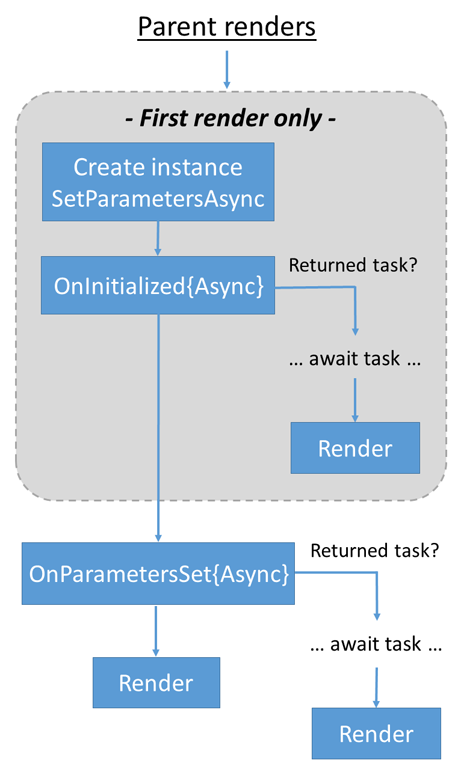
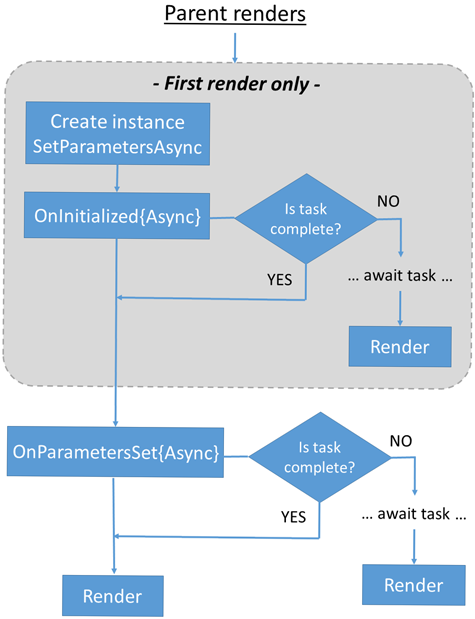
Updates

diff --git a/aspnetcore/blazor/components/lifecycle.md b/aspnetcore/blazor/components/lifecycle.md
@@ -1,11 +1,11 @@
 ---
 title: ASP.NET Core Blazor lifecycle
 author: guardrex
-description: Learn about the ASP.NET Core Blazor framework's Razor component lifecycle and how to use lifecycle events.
+description: Learn about the ASP.NET Core Razor component lifecycle and how to use lifecycle events.
 monikerRange: '>= aspnetcore-3.1'
 ms.author: riande
 ms.custom: mvc
-ms.date: 03/23/2020
+ms.date: 03/24/2020
 no-loc: [appsettings.json, "ASP.NET Core Identity", cookie, Cookie, Blazor, "Blazor Server", "Blazor WebAssembly", "Identity", "Let's Encrypt", Razor, SignalR]
 uid: blazor/components/lifecycle
 ---
@@ -22,15 +22,17 @@ Component lifecycle events:
 1. If the component is rendering for the first time on a request:
    * Create the component's instance.
    * Perform property injection. Run [`SetParametersAsync`](#before-parameters-are-set-setparametersasync).
-   * Call [`OnInitialized{Async}`](#component-initialization-methods-oninitializedoninitializedasync). If a <xref:System.Threading.Tasks.Task> is returned, the <xref:System.Threading.Tasks.Task> is awaited and the component is rendered. If a <xref:System.Threading.Tasks.Task> isn't returned, the component is rendered.
-1. Call [`OnParametersSet{Async}`](#after-parameters-are-set-onparameterssetonparameterssetasync) and render the component. If a <xref:System.Threading.Tasks.Task> is returned from `OnParametersSetAsync`, the <xref:System.Threading.Tasks.Task> is awaited and then the component is rerendered.
+   * Call [`OnInitialized{Async}`](#component-initialization-methods-oninitializedasync). If an incomplete <xref:System.Threading.Tasks.Task> is returned, the <xref:System.Threading.Tasks.Task> is awaited and then the component is rerendered.
+1. Call [`OnParametersSet{Async}`](#after-parameters-are-set-onparameterssetasync). If an incomplete <xref:System.Threading.Tasks.Task> is returned, the <xref:System.Threading.Tasks.Task> is awaited and then component is rerendered.
+1. Render for all synchronous work and complete <xref:System.Threading.Tasks.Task>s.
 
 ![Component lifecycle events of a Razor component in Blazor](lifecycle/_static/lifecycle1.png)
 
 Document Object Model (DOM) event processing:
 
 1. The event handler is run.
-1. If a <xref:System.Threading.Tasks.Task> is returned, the <xref:System.Threading.Tasks.Task> is awaited and then the component is rendered. If a <xref:System.Threading.Tasks.Task> isn't returned, the component is rendered.
+1. If an incomplete <xref:System.Threading.Tasks.Task> is returned, the <xref:System.Threading.Tasks.Task> is awaited and then the component is rerendered.
+1. Render for all synchronous work and complete <xref:System.Threading.Tasks.Task>s.
 
 ![Document Object Model (DOM) event processing](lifecycle/_static/lifecycle2.png)
 
@@ -41,7 +43,7 @@ The `Render` lifecycle:
    * When [`ShouldRender`](#suppress-ui-refreshing-shouldrender) is `false`.
 1. Build the render tree diff (difference) and render the component.
 1. Await the DOM to update.
-1. Call [`OnAfterRender{Async}`](#after-component-render-onafterrenderonafterrenderasync).
+1. Call [`OnAfterRender{Async}`](#after-component-render-onafterrenderasync).
 
 ![Render lifecycle](lifecycle/_static/lifecycle3.png)
 
@@ -51,13 +53,13 @@ Developer calls to [`StateHasChanged`](#state-changes-statehaschanged) result in
 
 <xref:Microsoft.AspNetCore.Components.ComponentBase.SetParametersAsync%2A> sets parameters supplied by the component's parent in the render tree or from route parameters.
 
-The method's <xref:Microsoft.AspNetCore.Components.ParameterView> parameter contains the set of [component parameter](xref:blazor/components/index#parameters) values for the component each time <xref:Microsoft.AspNetCore.Components.ComponentBase.SetParametersAsync%2A> is called. By overriding the <xref:Microsoft.AspNetCore.Components.ComponentBase.SetParametersAsync%2A> method, developer code can interact directly with the <xref:Microsoft.AspNetCore.Components.ParameterView>'s parameters.
+The method's <xref:Microsoft.AspNetCore.Components.ParameterView> parameter contains the set of [component parameter](xref:blazor/components/index#parameters) values for the component each time <xref:Microsoft.AspNetCore.Components.ComponentBase.SetParametersAsync%2A> is called. By overriding the <xref:Microsoft.AspNetCore.Components.ComponentBase.SetParametersAsync%2A> method, developer code can interact directly with <xref:Microsoft.AspNetCore.Components.ParameterView>'s parameters.
 
 The default implementation of <xref:Microsoft.AspNetCore.Components.ComponentBase.SetParametersAsync%2A> sets the value of each property with the [`[Parameter]`](xref:Microsoft.AspNetCore.Components.ParameterAttribute) or [`[CascadingParameter]` attribute](xref:Microsoft.AspNetCore.Components.CascadingParameterAttribute) that has a corresponding value in the <xref:Microsoft.AspNetCore.Components.ParameterView>. Parameters that don't have a corresponding value in <xref:Microsoft.AspNetCore.Components.ParameterView> are left unchanged.
 
-If [`base.SetParametersAsync`](xref:Microsoft.AspNetCore.Components.ComponentBase.SetParametersAsync%2A) isn't invoked, the custom code can interpret the incoming parameters value in any way required. For example, there's no requirement to assign the incoming parameters to the properties on the class.
+If [`base.SetParametersAsync`](xref:Microsoft.AspNetCore.Components.ComponentBase.SetParametersAsync%2A) isn't invoked, developer code can interpret the incoming parameters' values in any way required. For example, there's no requirement to assign the incoming parameters to the properties on the class.
 
-If any event handlers are set up, unhook them on disposal. For more information, see the [Component disposal with `IDisposable`](#component-disposal-with-idisposable) section.
+If event handlers are set up, unhook them on disposal. For more information, see the [Component disposal with `IDisposable`](#component-disposal-with-idisposable) section.
 
 In the following example, <xref:Microsoft.AspNetCore.Components.ParameterView.TryGetValue%2A?displayProperty=nameWithType> assigns the `Param` parameter's value to `value` if parsing a route parameter for `Param` is successful. When `value` isn't `null`, the value is displayed by the component.
 
@@ -77,11 +79,9 @@ Although [route parameter matching is case insensitive](xref:blazor/fundamentals
 
 ::: moniker-end
 
-## Component initialization methods (`OnInitialized`/`OnInitializedAsync`)
+## Component initialization methods (`OnInitialized{Async}`)
 
-<xref:Microsoft.AspNetCore.Components.ComponentBase.OnInitialized%2A> and <xref:Microsoft.AspNetCore.Components.ComponentBase.OnInitializedAsync%2A> are invoked when the component is initialized after having received its initial parameters from its parent component in <xref:Microsoft.AspNetCore.Components.ComponentBase.SetParametersAsync%2A>.
-
-Use <xref:Microsoft.AspNetCore.Components.ComponentBase.OnInitializedAsync%2A> when the component performs an asynchronous operation and should refresh when the operation is complete.
+<xref:Microsoft.AspNetCore.Components.ComponentBase.OnInitialized%2A> and <xref:Microsoft.AspNetCore.Components.ComponentBase.OnInitializedAsync%2A> are invoked when the component is initialized after having received its initial parameters in <xref:Microsoft.AspNetCore.Components.ComponentBase.SetParametersAsync%2A>.
 
 For a synchronous operation, override <xref:Microsoft.AspNetCore.Components.ComponentBase.OnInitialized%2A>:
 
@@ -89,13 +89,13 @@ For a synchronous operation, override <xref:Microsoft.AspNetCore.Components.Comp
 
 ::: moniker range=">= aspnetcore-5.0"
 
-[!code-razor[](~/blazor/common/samples/5.x/BlazorSample_WebAssembly/Pages/lifecycle/OnInit.razor)]
+[!code-razor[](~/blazor/common/samples/5.x/BlazorSample_WebAssembly/Pages/lifecycle/OnInit.razor?highlight=8)]
 
 ::: moniker-end
 
 ::: moniker range="< aspnetcore-5.0"
 
-[!code-razor[](~/blazor/common/samples/3.x/BlazorSample_WebAssembly/Pages/lifecycle/OnInit.razor)]
+[!code-razor[](~/blazor/common/samples/3.x/BlazorSample_WebAssembly/Pages/lifecycle/OnInit.razor?highlight=8)]
 
 ::: moniker-end
 
@@ -108,25 +108,25 @@ protected override async Task OnInitializedAsync()
 }
 ```
 
-Blazor Server apps that [prerender their content](xref:blazor/fundamentals/signalr#render-mode) call <xref:Microsoft.AspNetCore.Components.ComponentBase.OnInitializedAsync%2A> *twice*:
+Blazor apps that [prerender their content](xref:blazor/fundamentals/signalr#render-mode) call <xref:Microsoft.AspNetCore.Components.ComponentBase.OnInitializedAsync%2A> *twice*:
 
 * Once when the component is initially rendered statically as part of the page.
-* A second time when the browser establishes a connection back to the server.
+* A second time when the browser renders the component.
 
-To prevent developer code in <xref:Microsoft.AspNetCore.Components.ComponentBase.OnInitializedAsync%2A> from running twice, see the [Stateful reconnection after prerendering](#stateful-reconnection-after-prerendering) section.
+To prevent developer code in <xref:Microsoft.AspNetCore.Components.ComponentBase.OnInitializedAsync%2A> from running twice when prerendering in Blazor Server apps, see the [Stateful reconnection after prerendering](#stateful-reconnection-after-prerendering) section. Although the content in the section focuses on Blazor Server and stateful *reconnection* after the SignalR connection is established, the corallary scenario for prerendered hosted Blazor WebAssembly involves a similar conditions and approaches to prevent executing developer code twice. A *new state preservation feature* is planned for the ASP.NET Core 6.0 release that will improve the management of prerendering and initialization code execution.
 
-While a Blazor Server app is prerendering, certain actions, such as calling into JavaScript, aren't possible because a connection with the browser hasn't been established. Components may need to render differently when prerendered. For more information, see the [Detect when the app is prerendering](#detect-when-the-app-is-prerendering) section.
+While a Blazor app is prerendering, certain actions, such as calling into JavaScript, aren't possible. Components may need to render differently when prerendered. For more information, see the [Detect when the app is prerendering](#detect-when-the-app-is-prerendering) section.
 
-If any event handlers are set up, unhook them on disposal. For more information, see the [Component disposal with `IDisposable`](#component-disposal-with-idisposable) section.
+If event handlers are set up, unhook them on disposal. For more information, see the [Component disposal with `IDisposable`](#component-disposal-with-idisposable) section.
 
-## After parameters are set (`OnParametersSet`/`OnParametersSetAsync`)
+## After parameters are set (`OnParametersSet{Async}`)
 
 <xref:Microsoft.AspNetCore.Components.ComponentBase.OnParametersSet%2A> or <xref:Microsoft.AspNetCore.Components.ComponentBase.OnParametersSetAsync%2A> are called:
 
 * After the component is initialized in <xref:Microsoft.AspNetCore.Components.ComponentBase.OnInitialized%2A> or <xref:Microsoft.AspNetCore.Components.ComponentBase.OnInitializedAsync%2A>.
 * When the parent component rerenders and supplies:
   * Only known primitive immutable types of which at least one parameter has changed.
-  * Any complex-typed parameters. The framework can't know whether the values of a complex-typed parameter have mutated internally, so it always treats the parameter set as changed when one or more complex-typed parameters are present.
+  * Complex-typed parameters. The framework can't know whether the values of a complex-typed parameter have mutated internally, so the framework always treats the parameter set as changed when one or more complex-typed parameters are present.
 
 For the following example component, navigate to the component's page at a URL:
 
@@ -159,11 +159,11 @@ protected override async Task OnParametersSetAsync()
 }
 ```
 
-If any event handlers are set up, unhook them on disposal. For more information, see the [Component disposal with `IDisposable`](#component-disposal-with-idisposable) section.
+If event handlers are set up, unhook them on disposal. For more information, see the [Component disposal with `IDisposable`](#component-disposal-with-idisposable) section.
 
 For more information on route parameters and constraints, see <xref:blazor/fundamentals/routing>.
 
-## After component render (`OnAfterRender`/`OnAfterRenderAsync`)
+## After component render (`OnAfterRender{Async}`)
 
 <xref:Microsoft.AspNetCore.Components.ComponentBase.OnAfterRender%2A> and <xref:Microsoft.AspNetCore.Components.ComponentBase.OnAfterRenderAsync%2A> are called after a component has finished rendering. Element and component references are populated at this point. Use this stage to perform additional initialization steps using the rendered content, such as activating third-party JavaScript libraries that operate on the rendered DOM elements.
 
@@ -205,7 +205,7 @@ Even if you return a <xref:System.Threading.Tasks.Task> from <xref:Microsoft.Asp
 1. The component executes on the server to produce some static HTML markup in the HTTP response. During this phase, <xref:Microsoft.AspNetCore.Components.ComponentBase.OnAfterRender%2A> and <xref:Microsoft.AspNetCore.Components.ComponentBase.OnAfterRenderAsync%2A> aren't called.
 1. When the Blazor script (`blazor.webassembly.js` or `blazor.server.js`) start in the browser, the component is restarted in an interactive rendering mode. After a component is restarted, <xref:Microsoft.AspNetCore.Components.ComponentBase.OnAfterRender%2A> and <xref:Microsoft.AspNetCore.Components.ComponentBase.OnAfterRenderAsync%2A> **are** called because the app isn't in the prerendering phase any longer.
 
-If any event handlers are set up, unhook them on disposal. For more information, see the [Component disposal with `IDisposable`](#component-disposal-with-idisposable) section.
+If event handlers are set up, unhook them on disposal. For more information, see the [Component disposal with `IDisposable`](#component-disposal-with-idisposable) section.
 
 ## Suppress UI refreshing (`ShouldRender`)
 
@@ -263,7 +263,7 @@ For information on handling errors during lifecycle method execution, see <xref:
 
 ## Stateful reconnection after prerendering
 
-In a Blazor Server app when <xref:Microsoft.AspNetCore.Mvc.TagHelpers.ComponentTagHelper.RenderMode> is <xref:Microsoft.AspNetCore.Mvc.Rendering.RenderMode.ServerPrerendered>, the component is initially rendered statically as part of the page. Once the browser establishes a connection back to the server, the component is rendered *again*, and the component is now interactive. If the [`OnInitialized{Async}`](#component-initialization-methods-oninitializedoninitializedasync) lifecycle method for initializing the component is present, the method is executed *twice*:
+In a Blazor Server app when <xref:Microsoft.AspNetCore.Mvc.TagHelpers.ComponentTagHelper.RenderMode> is <xref:Microsoft.AspNetCore.Mvc.Rendering.RenderMode.ServerPrerendered>, the component is initially rendered statically as part of the page. Once the browser establishes a SignalR connection back to the server, the component is rendered *again* and interactive. If the [`OnInitialized{Async}`](#component-initialization-methods-oninitializedasync) lifecycle method for initializing the component is present, the method is executed *twice*:
 
 * When the component is prerendered statically.
 * After the server connection has been established.
@@ -294,7 +294,7 @@ For more information on the <xref:Microsoft.AspNetCore.Mvc.TagHelpers.ComponentT
 
 ## Component disposal with `IDisposable`
 
-If a component implements <xref:System.IDisposable>, the framework calls the [disposal method](/dotnet/standard/garbage-collection/implementing-dispose) when the component is removed from the UI, where unmanaged resources can be released. Disposal can occur at any time, including during [component initialization](#component-initialization-methods-oninitializedoninitializedasync). The following component implements <xref:System.IDisposable> with the [`@implements`](xref:mvc/views/razor#implements) Razor directive:
+If a component implements <xref:System.IDisposable>, the framework calls the [disposal method](/dotnet/standard/garbage-collection/implementing-dispose) when the component is removed from the UI, where unmanaged resources can be released. Disposal can occur at any time, including during [component initialization](#component-initialization-methods-oninitializedasync). The following component implements <xref:System.IDisposable> with the [`@implements`](xref:mvc/views/razor#implements) Razor directive:
 
 ```razor
 @using System

diff --git a/aspnetcore/blazor/debug.md b/aspnetcore/blazor/debug.md
@@ -29,7 +29,7 @@ Available scenarios include:
 For now, you *can't*:
 
 * Break on unhandled exceptions.
-* Hit breakpoints during app startup before the debug proxy is running. This includes breakpoints in `Program.Main` (`Program.cs`) and breakpoints in the [`OnInitialized{Async}` methods](xref:blazor/components/lifecycle#component-initialization-methods-oninitializedoninitializedasync) of components that are loaded by the first page requested from the app.
+* Hit breakpoints during app startup before the debug proxy is running. This includes breakpoints in `Program.Main` (`Program.cs`) and breakpoints in the [`OnInitialized{Async}` methods](xref:blazor/components/lifecycle#component-initialization-methods-oninitializedasync) of components that are loaded by the first page requested from the app.
 * Debug in non-local scenarios (for example, [Windows Subsystem for Linux (WSL)](/windows/wsl/) or [Visual Studio Codespaces](/visualstudio/codespaces/overview/what-is-vsonline)).
 * Automatically rebuild the backend `*Server*` app of a hosted Blazor WebAssembly solution during debugging, for example by running the app with [`dotnet watch run`](xref:tutorials/dotnet-watch).
 
@@ -100,7 +100,7 @@ While debugging a Blazor WebAssembly app, you can also debug server code:
 1. Press <kbd>F5</kbd> again to let execution continue and see the weather forecast table rendered in the browser.
 
 > [!NOTE]
-> Breakpoints are **not** hit during app startup before the debug proxy is running. This includes breakpoints in `Program.Main` (`Program.cs`) and breakpoints in the [`OnInitialized{Async}` methods](xref:blazor/components/lifecycle#component-initialization-methods-oninitializedoninitializedasync) of components that are loaded by the first page requested from the app.
+> Breakpoints are **not** hit during app startup before the debug proxy is running. This includes breakpoints in `Program.Main` (`Program.cs`) and breakpoints in the [`OnInitialized{Async}` methods](xref:blazor/components/lifecycle#component-initialization-methods-oninitializedasync) of components that are loaded by the first page requested from the app.
 
 If the app is hosted at a different [app base path](xref:blazor/host-and-deploy/index#app-base-path) than `/`, update the following properties in `Properties/launchSettings.json` to reflect the app's base path:
 
@@ -181,7 +181,7 @@ For information on configuring VS Code assets in the `.vscode` folder, see the *
 1. In the browser, navigate to `Counter` page and select the **Click me** button to hit the breakpoint.
 
 > [!NOTE]
-> Breakpoints are **not** hit during app startup before the debug proxy is running. This includes breakpoints in `Program.Main` (`Program.cs`) and breakpoints in the [`OnInitialized{Async}` methods](xref:blazor/components/lifecycle#component-initialization-methods-oninitializedoninitializedasync) of components that are loaded by the first page requested from the app.
+> Breakpoints are **not** hit during app startup before the debug proxy is running. This includes breakpoints in `Program.Main` (`Program.cs`) and breakpoints in the [`OnInitialized{Async}` methods](xref:blazor/components/lifecycle#component-initialization-methods-oninitializedasync) of components that are loaded by the first page requested from the app.
 
 ## Debug hosted Blazor WebAssembly
 
@@ -297,7 +297,7 @@ While debugging a Blazor WebAssembly app, you can also debug server code:
 1. Press <kbd>&#8984;</kbd>+<kbd>&#8617;</kbd> again to let execution continue and see the weather forecast table rendered in the browser.
 
 > [!NOTE]
-> Breakpoints are **not** hit during app startup before the debug proxy is running. This includes breakpoints in `Program.Main` (`Program.cs`) and breakpoints in the [`OnInitialized{Async}` methods](xref:blazor/components/lifecycle#component-initialization-methods-oninitializedoninitializedasync) of components that are loaded by the first page requested from the app.
+> Breakpoints are **not** hit during app startup before the debug proxy is running. This includes breakpoints in `Program.Main` (`Program.cs`) and breakpoints in the [`OnInitialized{Async}` methods](xref:blazor/components/lifecycle#component-initialization-methods-oninitializedasync) of components that are loaded by the first page requested from the app.
 
 For more information, see [Debugging with Visual Studio for Mac](/visualstudio/mac/debugging).
 
@@ -367,7 +367,7 @@ If you're running into errors, the following tips may help:
 
 ### Breakpoints in `OnInitialized{Async}` not hit
 
-The Blazor framework's debugging proxy takes a short time to launch, so breakpoints in the [`OnInitialized{Async}` lifecycle method](xref:blazor/components/lifecycle#component-initialization-methods-oninitializedoninitializedasync) might not be hit. We recommend adding a delay at the start of the method body to give the debug proxy some time to launch before the breakpoint is hit. You can include the delay based on an [`if` compiler directive](/dotnet/csharp/language-reference/preprocessor-directives/preprocessor-if) to ensure that the delay isn't present for a release build of the app.
+The Blazor framework's debugging proxy takes a short time to launch, so breakpoints in the [`OnInitialized{Async}` lifecycle method](xref:blazor/components/lifecycle#component-initialization-methods-oninitializedasync) might not be hit. We recommend adding a delay at the start of the method body to give the debug proxy some time to launch before the breakpoint is hit. You can include the delay based on an [`if` compiler directive](/dotnet/csharp/language-reference/preprocessor-directives/preprocessor-if) to ensure that the delay isn't present for a release build of the app.
 
 <xref:Microsoft.AspNetCore.Components.ComponentBase.OnInitialized%2A>:
 

diff --git a/aspnetcore/blazor/components/index.md b/aspnetcore/blazor/components/index.md
@@ -340,7 +340,7 @@ Assign C# fields, properties, and methods to component parameters as HTML attrib
   
   > The 'await' operator can only be used within an async method. Consider marking this method with the 'async' modifier and changing its return type to 'Task'.
 
-  To obtain a value for the `Title` parameter in the preceding example asychronously, the component can use the [`OnInitializedAsync` lifecycle event](xref:blazor/components/lifecycle#component-initialization-methods-oninitializedoninitializedasync), as the following example demonstrates:
+  To obtain a value for the `Title` parameter in the preceding example asychronously, the component can use the [`OnInitializedAsync` lifecycle event](xref:blazor/components/lifecycle#component-initialization-methods-oninitializedasync), as the following example demonstrates:
   
   ```razor
   <ChildComponent Title="@title">
@@ -443,7 +443,7 @@ If you need to transform a received parameter value:
 * Leave the parameter property as a pure auto-property to represent the supplied raw data.
 * Create some other property or method that supplies the transformed data based on the parameter property.
 
-You can override [`OnParametersSetAsync`](xref:blazor/components/lifecycle#after-parameters-are-set-onparameterssetonparameterssetasync) if you want to transform a received parameter each time new data is received.
+You can override [`OnParametersSetAsync`](xref:blazor/components/lifecycle#after-parameters-are-set-onparameterssetasync) if you want to transform a received parameter each time new data is received.
 
 ### Route parameters
 
@@ -681,9 +681,9 @@ When the component is rendered, the `loginDialog` field is populated with the `C
 > [!IMPORTANT]
 > The `loginDialog` variable is only populated after the component is rendered and its output includes the `MyLoginDialog` element. Until the component is rendered, there's nothing to reference.
 >
-> To manipulate components references after the component has finished rendering, use the [`OnAfterRender` or `OnAfterRenderAsync` methods](xref:blazor/components/lifecycle#after-component-render-onafterrenderonafterrenderasync).
+> To manipulate components references after the component has finished rendering, use the [`OnAfterRender` or `OnAfterRenderAsync` methods](xref:blazor/components/lifecycle#after-component-render-onafterrenderasync).
 >
-> To use a reference variable with an event handler, use a lambda expression or assign the event handler delegate in the [`OnAfterRender` or `OnAfterRenderAsync` methods](xref:blazor/components/lifecycle#after-component-render-onafterrenderonafterrenderasync). This ensures that the reference variable is assigned before the event handler is assigned.
+> To use a reference variable with an event handler, use a lambda expression or assign the event handler delegate in the [`OnAfterRender` or `OnAfterRenderAsync` methods](xref:blazor/components/lifecycle#after-component-render-onafterrenderasync). This ensures that the reference variable is assigned before the event handler is assigned.
 >
 > ```razor
 > <button type="button" 
@@ -938,7 +938,7 @@ To maintain state in the preceding scenario, use a *private field* in the `Expan
 The following revised `Expander` component:
 
 * Accepts the `Expanded` component parameter value from the parent.
-* Assigns the component parameter value to a *private field* (`expanded`) in the [OnInitialized event](xref:blazor/components/lifecycle#component-initialization-methods-oninitializedoninitializedasync).
+* Assigns the component parameter value to a *private field* (`expanded`) in the [OnInitialized event](xref:blazor/components/lifecycle#component-initialization-methods-oninitializedasync).
 * Uses the private field to maintain its internal toggle state, which demonstrates how to avoid writing directly to a parameter.
 
 ```razor

diff --git a/aspnetcore/blazor/includes/prerendering.md b/aspnetcore/blazor/includes/prerendering.md
@@ -1,9 +1,9 @@
 ---
 no-loc: [appsettings.json, "ASP.NET Core Identity", cookie, Cookie, Blazor, "Blazor Server", "Blazor WebAssembly", "Identity", "Let's Encrypt", Razor, SignalR]
 ---
-While a Blazor Server app is prerendering, certain actions, such as calling into JavaScript, aren't possible because a connection with the browser hasn't been established. Components may need to render differently when prerendered.
+While an app is prerendering, certain actions, such as calling into JavaScript, aren't possible. Components may need to render differently when prerendered.
 
-To delay JavaScript interop calls until after the connection with the browser is established, you can override the [`OnAfterRenderAsync` lifecycle event](xref:blazor/components/lifecycle#after-component-render-onafterrenderonafterrenderasync). This event is only called after the app is fully rendered and the client connection is established.
+To delay JavaScript interop calls until a point where such calls are guaranteed to work, override the [`OnAfterRender{Async}` lifecycle event](xref:blazor/components/lifecycle#after-component-render-onafterrenderasync). This event is only called after the app is fully rendered.
 
 `Pages/PrerenderedInterop1.razor`:
 
@@ -29,6 +29,13 @@ For the preceding example code, provide a `setElementText1` JavaScript function 
 
 > [!WARNING]
 > **The preceding example modifies the Document Object Model (DOM) directly for demonstration purposes only.** Directly modifying the DOM with JavaScript isn't recommended in most scenarios because JavaScript can interfere with Blazor's change tracking.
+
+> [!NOTE]
+> The preceding example pollutes the client with global methods. For a better approach in production apps, see [Blazor JavaScript isolation and object references](xref:blazor/call-javascript-from-dotnet#blazor-javascript-isolation-and-object-references):
+>
+> ```javascript
+> export setElementText1 = (element, text) => element.innerText = text;
+> ```
 
 The following component demonstrates how to use JavaScript interop as part of a component's initialization logic in a way that's compatible with prerendering. The component shows that it's possible to trigger a rendering update from inside <xref:Microsoft.AspNetCore.Components.ComponentBase.OnAfterRenderAsync%2A>. The developer must be careful to avoid creating an infinite loop in this scenario.
 
@@ -63,3 +70,13 @@ For the preceding example code, provide a `setElementText2` JavaScript function 
 
 > [!WARNING]
 > **The preceding example modifies the Document Object Model (DOM) directly for demonstration purposes only.** Directly modifying the DOM with JavaScript isn't recommended in most scenarios because JavaScript can interfere with Blazor's change tracking.
+
+> [!NOTE]
+> The preceding example pollutes the client with global methods. For a better approach in production apps, see [Blazor JavaScript isolation and object references](xref:blazor/call-javascript-from-dotnet#blazor-javascript-isolation-and-object-references):
+>
+> ```javascript
+> export setElementText2 = (element, text) => {
+>   element.innerText = text;
+>   return text;
+> };
+> ```

diff --git a/aspnetcore/blazor/components/rendering.md b/aspnetcore/blazor/components/rendering.md
@@ -42,7 +42,7 @@ Calling <xref:Microsoft.AspNetCore.Components.ComponentBase.StateHasChanged%2A> 
 Code shouldn't need to call <xref:Microsoft.AspNetCore.Components.ComponentBase.StateHasChanged%2A> when:
 
 * Routinely handling events, whether synchronously or asynchronously, since <xref:Microsoft.AspNetCore.Components.ComponentBase> triggers a render for most routine event handlers.
-* Implementing typical lifecycle logic, such as [`OnInitialized`](xref:blazor/components/lifecycle#component-initialization-methods-oninitializedoninitializedasync) or [`OnParametersSetAsync`](xref:blazor/components/lifecycle#after-parameters-are-set-onparameterssetonparameterssetasync), whether synchonrously or asynchronously, since <xref:Microsoft.AspNetCore.Components.ComponentBase> triggers a render for typical lifecycle events.
+* Implementing typical lifecycle logic, such as [`OnInitialized`](xref:blazor/components/lifecycle#component-initialization-methods-oninitializedasync) or [`OnParametersSetAsync`](xref:blazor/components/lifecycle#after-parameters-are-set-onparameterssetasync), whether synchonrously or asynchronously, since <xref:Microsoft.AspNetCore.Components.ComponentBase> triggers a render for typical lifecycle events.
 
 However, it might make sense to call <xref:Microsoft.AspNetCore.Components.ComponentBase.StateHasChanged%2A> in the cases described in the following sections of this article:
 

diff --git a/aspnetcore/blazor/call-javascript-from-dotnet.md b/aspnetcore/blazor/call-javascript-from-dotnet.md
@@ -231,7 +231,7 @@ The `clickElement` method is called directly on the object. The following exampl
 [!code-razor[](call-javascript-from-dotnet/samples_snapshot/component2.razor?highlight=15)]
 
 > [!IMPORTANT]
-> The `exampleButton` variable is only populated after the component is rendered. If an unpopulated <xref:Microsoft.AspNetCore.Components.ElementReference> is passed to JavaScript code, the JavaScript code receives a value of `null`. To manipulate element references after the component has finished rendering use the [`OnAfterRenderAsync` or `OnAfterRender` component lifecycle methods](xref:blazor/components/lifecycle#after-component-render-onafterrenderonafterrenderasync).
+> The `exampleButton` variable is only populated after the component is rendered. If an unpopulated <xref:Microsoft.AspNetCore.Components.ElementReference> is passed to JavaScript code, the JavaScript code receives a value of `null`. To manipulate element references after the component has finished rendering use the [`OnAfterRenderAsync` or `OnAfterRender` component lifecycle methods](xref:blazor/components/lifecycle#after-component-render-onafterrenderasync).
 
 When working with generic types and returning a value, use <xref:System.Threading.Tasks.ValueTask%601>:
 

diff --git a/aspnetcore/blazor/fundamentals/routing.md b/aspnetcore/blazor/fundamentals/routing.md
@@ -145,7 +145,7 @@ Optional parameters aren't supported. In the following example, two [`@page` dir
 
 ::: moniker-end
 
-Use [`OnParametersSet`](xref:blazor/components/lifecycle#after-parameters-are-set-onparameterssetonparameterssetasync) instead of [`OnInitialized`](xref:blazor/components/lifecycle#component-initialization-methods-oninitializedoninitializedasync) to permit app navigation to the same component with a different optional parameter value. Based on the preceding example, use `OnParametersSet` when the user should be able to navigate from `/RouteParameter` to `/RouteParameter/amazing` or from `/RouteParameter/amazing` to `/RouteParameter`:
+Use [`OnParametersSet`](xref:blazor/components/lifecycle#after-parameters-are-set-onparameterssetasync) instead of [`OnInitialized`](xref:blazor/components/lifecycle#component-initialization-methods-oninitializedasync) to permit app navigation to the same component with a different optional parameter value. Based on the preceding example, use `OnParametersSet` when the user should be able to navigate from `/RouteParameter` to `/RouteParameter/amazing` or from `/RouteParameter/amazing` to `/RouteParameter`:
 
 ```csharp
 protected override void OnParametersSet()

diff --git a/aspnetcore/blazor/security/webassembly/additional-scenarios.md b/aspnetcore/blazor/security/webassembly/additional-scenarios.md
@@ -382,7 +382,7 @@ When the app requests a token, there are two possible outcomes:
 
 When a token request fails, you need to decide whether you want to save any current state before you perform a redirection. Several approaches exist with increasing levels of complexity:
 
-* Store the current page state in session storage. During the [`OnInitializedAsync` lifecycle event](xref:blazor/components/lifecycle#component-initialization-methods-oninitializedoninitializedasync) (<xref:Microsoft.AspNetCore.Components.ComponentBase.OnInitializedAsync%2A>), check if state can be restored before continuing.
+* Store the current page state in session storage. During the [`OnInitializedAsync` lifecycle event](xref:blazor/components/lifecycle#component-initialization-methods-oninitializedasync) (<xref:Microsoft.AspNetCore.Components.ComponentBase.OnInitializedAsync%2A>), check if state can be restored before continuing.
 * Add a query string parameter and use that as a way to signal the app that it needs to re-hydrate the previously saved state.
 * Add a query string parameter with a unique identifier to store data in session storage without risking collisions with other items.
 

diff --git a/aspnetcore/blazor/call-web-api.md b/aspnetcore/blazor/call-web-api.md
@@ -73,7 +73,7 @@ JSON helper methods send requests to a URI (a web API in the following examples)
 
 * <xref:System.Net.Http.Json.HttpClientJsonExtensions.GetFromJsonAsync%2A>: Sends an HTTP GET request and parses the JSON response body to create an object.
 
-  In the following code, the `todoItems` are displayed by the component. The `GetTodoItems` method is triggered when the component is finished rendering ([`OnInitializedAsync`](xref:blazor/components/lifecycle#component-initialization-methods-oninitializedoninitializedasync)). See the sample app for a complete example.
+  In the following code, the `todoItems` are displayed by the component. The `GetTodoItems` method is triggered when the component is finished rendering ([`OnInitializedAsync`](xref:blazor/components/lifecycle#component-initialization-methods-oninitializedasync)). See the sample app for a complete example.
 
   ```razor
   @using System.Net.Http

diff --git a/aspnetcore/blazor/fundamentals/logging.md b/aspnetcore/blazor/fundamentals/logging.md
@@ -49,7 +49,7 @@ Add the namespace for <xref:Microsoft.Extensions.Logging?displayProperty=fullNam
 @inject ILoggerProvider LoggerProvider
 ```
 
-In the component's [`OnInitializedAsync` method](xref:blazor/components/lifecycle#component-initialization-methods-oninitializedoninitializedasync), use <xref:Microsoft.AspNetCore.SignalR.Client.HubConnectionBuilderExtensions.ConfigureLogging%2A?displayProperty=nameWithType>:
+In the component's [`OnInitializedAsync` method](xref:blazor/components/lifecycle#component-initialization-methods-oninitializedasync), use <xref:Microsoft.AspNetCore.SignalR.Client.HubConnectionBuilderExtensions.ConfigureLogging%2A?displayProperty=nameWithType>:
 
 ```csharp
 var connection = new HubConnectionBuilder()
